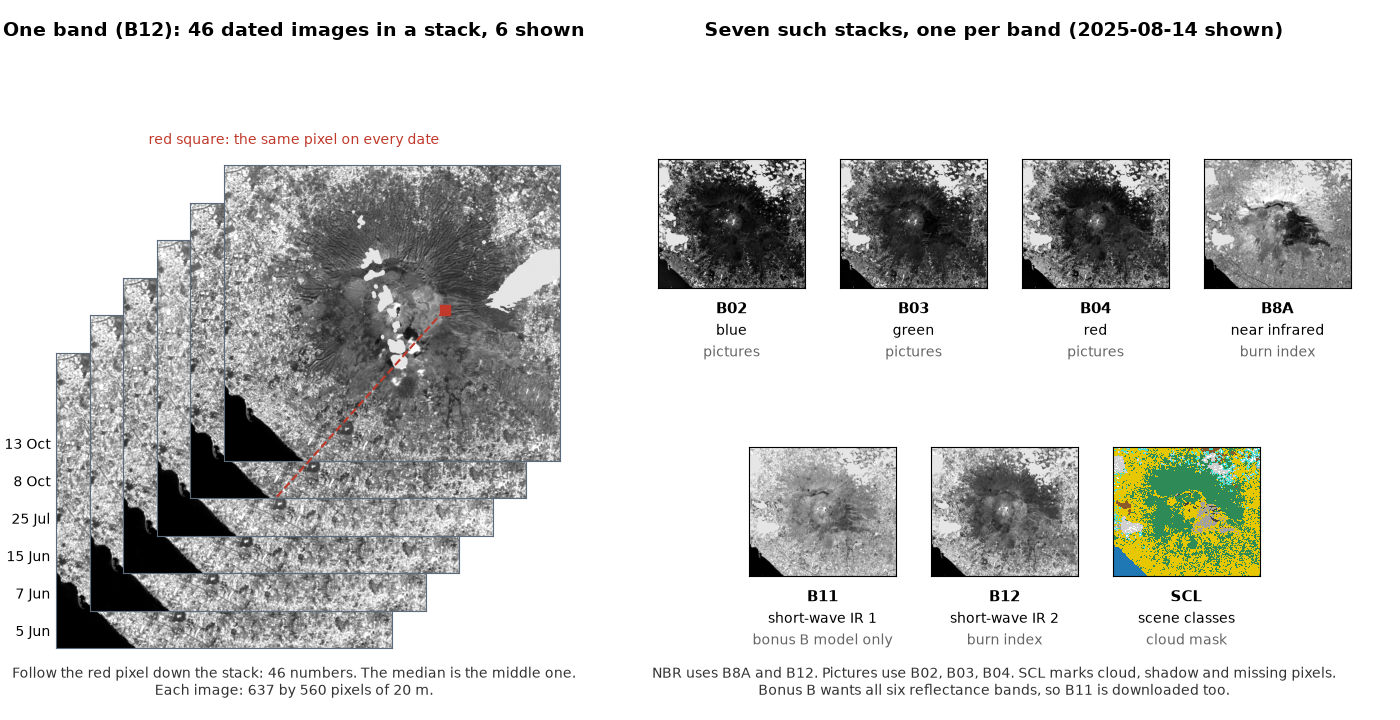
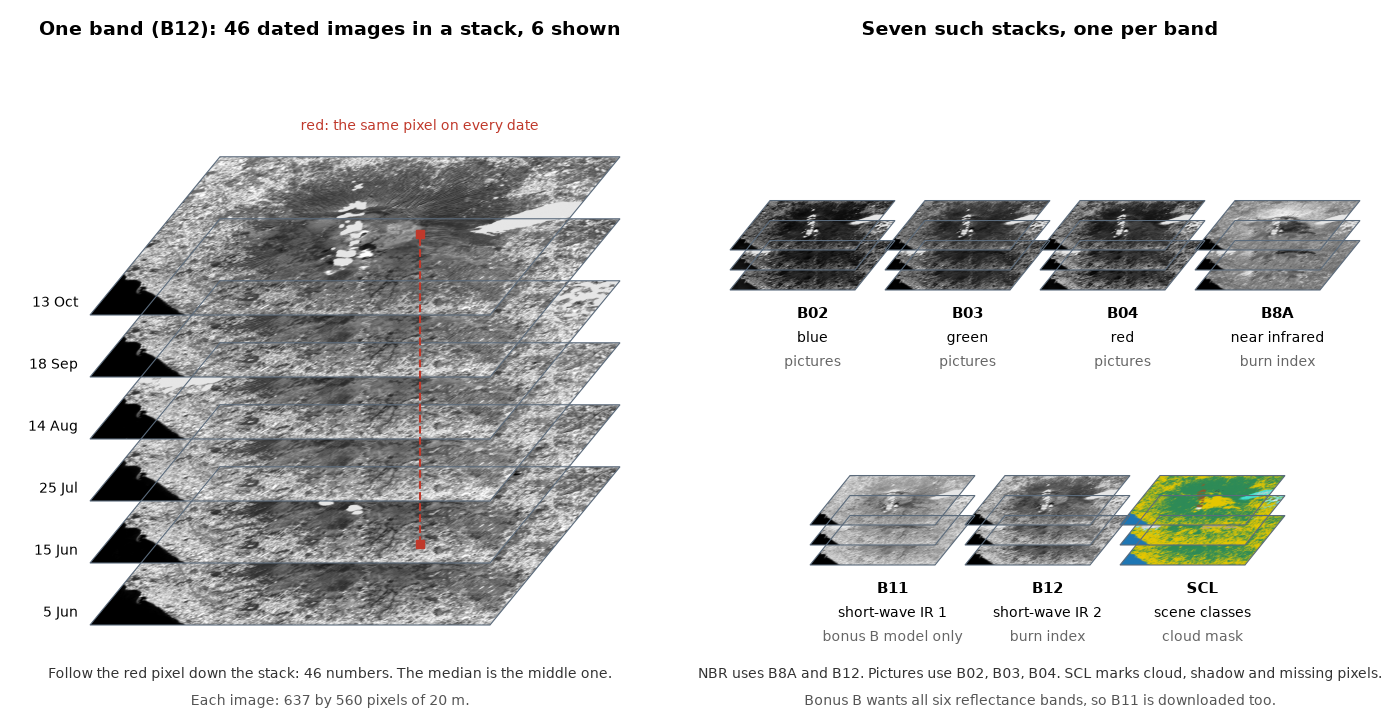
Cube figure: real band images drawn as 3-D stacks

diff --git a/scripts/make_cube_figure.py b/scripts/make_cube_figure.py
@@ -1,5 +1,5 @@
-"""Draw docs/figures/cube.png from the cached cube: one band as a stack of dated images, and
-the seven bands of one date side by side.
+"""Draw docs/figures/cube.png from the cached cube: one band as a 3-D stack of dated images, and
+the seven bands of the same dates as smaller stacks.
 
 Run after step 3 of the notebook has built data/cache/s2_dn_20m.nc:
     python scripts/make_cube_figure.py
@@ -10,11 +10,13 @@ from pathlib import Path
 import numpy as np
 from matplotlib import pyplot as plt
 from matplotlib.colors import ListedColormap
+from matplotlib.patches import Polygon
+from matplotlib.transforms import Affine2D
 
 from burnsev import aoi, catalog, indices, ingest
 
-STACK_DATES = ["2025-06-05", "2025-06-07", "2025-06-15", "2025-07-25", "2025-10-08", "2025-10-13"]
-SHOW_DATE = "2025-08-14"
+STACK_DATES = ["2025-06-05", "2025-06-15", "2025-07-25", "2025-08-14", "2025-09-18", "2025-10-13"]
+SMALL_DATES = ["2025-06-05", "2025-08-14", "2025-10-13"]
 BANDS = [
     ("B02", "blue", "pictures"),
     ("B03", "green", "pictures"),
@@ -28,6 +30,9 @@ SCL_COLOURS = ListedColormap(
     ["black", "red", "#404040", "#8b5a2b", "#2e8b57", "#e6c700", "#1f77b4", "#a0a0a0",
      "#d0d0d0", "#ffffff", "#40e0d0", "#ff69b4"]
 )
+ASPECT = 560 / 637  # rows over columns
+FLATTEN = 0.45  # how much a layer is squashed to look like it lies flat
+MONTH = ["Jan", "Feb", "Mar", "Apr", "May", "Jun", "Jul", "Aug", "Sep", "Oct", "Nov", "Dec"]
 
 
 def grey(values: np.ndarray) -> np.ndarray:
@@ -36,65 +41,83 @@ def grey(values: np.ndarray) -> np.ndarray:
     return np.where(np.isnan(scaled), 0.9, np.clip(scaled, 0, 1))
 
 
+def layer_transform(x0: float, y0: float, width: float, shear: float) -> Affine2D:
+    """Map image coordinates (0..width, 0..height) onto a flat-lying parallelogram at (x0, y0)."""
+    height = width * ASPECT
+    return Affine2D().scale(1, FLATTEN).skew(np.arctan(shear / (height * FLATTEN)), 0).translate(x0, y0)
+
+
+def draw_layer(ax, image, x0, y0, width, shear, cmap="gray", vmin=0, vmax=1, edge="#5b6b7c"):
+    height = width * ASPECT
+    trans = layer_transform(x0, y0, width, shear)
+    art = ax.imshow(image, extent=[0, width, 0, height], cmap=cmap, vmin=vmin, vmax=vmax,
+                    interpolation="bilinear", origin="upper")
+    art.set_transform(trans + ax.transData)
+    corners = trans.transform([[0, 0], [width, 0], [width, height], [0, height]])
+    ax.add_patch(Polygon(corners, closed=True, fill=False, edgecolor=edge, linewidth=0.8))
+    return trans
+
+
+def pixel_xy(trans: Affine2D, col: int, row: int, width: float) -> tuple[float, float]:
+    height = width * ASPECT
+    x, y = trans.transform([col / 637 * width, (1 - row / 560) * height])
+    return float(x), float(y)
+
+
 def main() -> Path:
     dn = ingest.load_cached(ingest.cache_path("s2_dn_20m"))
     items = catalog.search_scenes(aoi.BBOX, *aoi.PRE_WINDOW, aoi.MAX_CLOUD) + catalog.search_scenes(
         aoi.BBOX, *aoi.POST_WINDOW, aoi.MAX_CLOUD
     )
     refl = ingest.mask_and_scale(dn, catalog.offsets_by_day(items))
-    nbr = indices.nbr(refl)
-    dnbr = indices.dnbr(nbr, aoi.PRE_WINDOW, aoi.POST_WINDOW)
+    dnbr = indices.dnbr(indices.nbr(refl), aoi.PRE_WINDOW, aoi.POST_WINDOW)
     row, col = np.unravel_index(int(np.nanargmax(dnbr.values)), dnbr.shape)  # a burned pixel
 
     fig = plt.figure(figsize=(14, 7.2))
-    fig.text(0.21, 0.95, "One band (B12): 46 dated images in a stack, 6 shown",
-             ha="center", fontsize=14, weight="bold")
-    fig.text(0.71, 0.95, f"Seven such stacks, one per band ({SHOW_DATE} shown)",
-             ha="center", fontsize=14, weight="bold")
+    ax = fig.add_axes([0, 0, 1, 1])
+    ax.set_xlim(0, 14)
+    ax.set_ylim(0, 7.2)
+    ax.set_axis_off()
+    ax.text(3.3, 6.85, "One band (B12): 46 dated images in a stack, 6 shown", ha="center",
+            fontsize=14, weight="bold")
+    ax.text(10.4, 6.85, "Seven such stacks, one per band", ha="center", fontsize=14, weight="bold")
 
-    # Left: a cascade of real B12 images, oldest at the bottom, one pixel followed through them.
-    w, h = 0.24, 0.24 * (560 / 637) * (14 / 7.2)
-    corners = []
+    # Left: the big stack, oldest at the bottom, one pixel followed through it.
+    width, shear, step, x0, y0 = 4.0, 1.3, 0.62, 0.9, 0.95
+    marks = []
     for k, day in enumerate(STACK_DATES):
-        left, bottom = 0.04 + 0.024 * k, 0.10 + 0.052 * k
-        ax = fig.add_axes([left, bottom, w, h])
-        ax.imshow(grey(refl["B12"].sel(time=day).squeeze("time").values), cmap="gray", vmin=0, vmax=1)
-        ax.set_xticks([])
-        ax.set_yticks([])
-        for spine in ax.spines.values():
-            spine.set_edgecolor("#5b6b7c")
-        month = ["Jan", "Feb", "Mar", "Apr", "May", "Jun", "Jul", "Aug", "Sep", "Oct", "Nov", "Dec"]
-        fig.text(0.036, bottom + 0.012, f"{int(day[8:])} {month[int(day[5:7]) - 1]}",
-                 ha="right", va="bottom", fontsize=10)
-        corners.append((left + w * col / 637, bottom + h * (1 - row / 560)))
-        if k in (0, len(STACK_DATES) - 1):
-            ax.plot(col, row, "s", color="#c0392b", markersize=7)
-    (x0, y0), (x1, y1) = corners[0], corners[-1]
-    fig.add_artist(plt.Line2D([x0, x1], [y0, y1], color="#c0392b", linestyle="--", linewidth=1.5))
-    fig.text(0.21, 0.80, "red square: the same pixel on every date", color="#c0392b", fontsize=10,
-             ha="center")
-    fig.text(0.21, 0.035, "Follow the red pixel down the stack: 46 numbers. The median is the middle one.\n"
-             "Each image: 637 by 560 pixels of 20 m.", ha="center", fontsize=10, color="#333")
+        trans = draw_layer(ax, grey(refl["B12"].sel(time=day).squeeze("time").values),
+                           x0, y0 + k * step, width, shear)
+        ax.text(x0 - 0.12, y0 + k * step + 0.05, f"{int(day[8:])} {MONTH[int(day[5:7]) - 1]}",
+                ha="right", va="bottom", fontsize=10)
+        marks.append(pixel_xy(trans, col, row, width))
+    (xb, yb), (xt, yt) = marks[0], marks[-1]
+    ax.plot([xb, xt], [yb, yt], linestyle="--", color="#c0392b", linewidth=1.5)
+    ax.plot([xb, xt], [yb, yt], "s", color="#c0392b", markersize=6)
+    ax.text(xt, 5.9, "red: the same pixel on every date", color="#c0392b", fontsize=10, ha="center")
+    ax.text(3.3, 0.42, "Follow the red pixel down the stack: 46 numbers. The median is the middle one.",
+            ha="center", fontsize=10, color="#333")
+    ax.text(3.3, 0.15, "Each image: 637 by 560 pixels of 20 m.", ha="center", fontsize=10, color="#555")
 
-    # Right: the seven bands of one date.
-    tw, th = 0.105, 0.105 * (560 / 637) * (14 / 7.2)
-    positions = [(0.47, 0.60), (0.60, 0.60), (0.73, 0.60), (0.86, 0.60), (0.535, 0.20), (0.665, 0.20), (0.795, 0.20)]
-    day = refl.sel(time=SHOW_DATE).squeeze("time")
-    scl = dn["SCL"].sel(time=SHOW_DATE).squeeze("time").values
-    for (band, meaning, job), (left, bottom) in zip(BANDS, positions):
-        ax = fig.add_axes([left, bottom, tw, th])
-        if band == "SCL":
-            ax.imshow(scl, cmap=SCL_COLOURS, vmin=0, vmax=11, interpolation="nearest")
-        else:
-            ax.imshow(grey(day[band].values), cmap="gray", vmin=0, vmax=1)
-        ax.set_xticks([])
-        ax.set_yticks([])
-        fig.text(left + tw / 2, bottom - 0.035, band, ha="center", fontsize=11, weight="bold")
-        fig.text(left + tw / 2, bottom - 0.065, meaning, ha="center", fontsize=10)
-        fig.text(left + tw / 2, bottom - 0.095, job, ha="center", fontsize=10, color="#666")
-    fig.text(0.71, 0.035, "NBR uses B8A and B12. Pictures use B02, B03, B04. SCL marks cloud, shadow and missing pixels.\n"
-             "Bonus B wants all six reflectance bands, so B11 is downloaded too.",
-             ha="center", fontsize=10, color="#333")
+    # Right: a small stack per band, the same three dates in each.
+    swidth, sshear, sstep = 1.25, 0.4, 0.2
+    positions = [(7.3, 4.3), (8.85, 4.3), (10.4, 4.3), (11.95, 4.3), (8.1, 1.55), (9.65, 1.55), (11.2, 1.55)]
+    for (band, meaning, job), (sx, sy) in zip(BANDS, positions):
+        for k, day in enumerate(SMALL_DATES):
+            if band == "SCL":
+                image = dn["SCL"].sel(time=day).squeeze("time").values
+                draw_layer(ax, image, sx, sy + k * sstep, swidth, sshear, cmap=SCL_COLOURS, vmin=0, vmax=11)
+            else:
+                draw_layer(ax, grey(refl[band].sel(time=day).squeeze("time").values),
+                           sx, sy + k * sstep, swidth, sshear)
+        cx = sx + (swidth + sshear) / 2
+        ax.text(cx, sy - 0.28, band, ha="center", fontsize=11, weight="bold")
+        ax.text(cx, sy - 0.52, meaning, ha="center", fontsize=10)
+        ax.text(cx, sy - 0.76, job, ha="center", fontsize=10, color="#666")
+    ax.text(10.4, 0.42, "NBR uses B8A and B12. Pictures use B02, B03, B04. SCL marks cloud, shadow and missing pixels.",
+            ha="center", fontsize=10, color="#333")
+    ax.text(10.4, 0.15, "Bonus B wants all six reflectance bands, so B11 is downloaded too.",
+            ha="center", fontsize=10, color="#555")
 
     out = Path("docs/figures/cube.png")
     out.parent.mkdir(parents=True, exist_ok=True)
